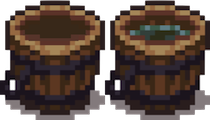
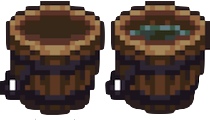
bottom panel

diff --git a/src/components.js b/src/components.js
@@ -21,7 +21,10 @@ gv = {
 			movement: []
 		}
 	},
-	score: 0
+	score: 0,
+	resources: {
+		eggs: 0
+	}
 }
 
 // Grid
@@ -45,11 +48,10 @@ Crafty.c('Grid', {
 Crafty.c('Player', {
 	init: function() {
 		this.requires('2D, Canvas, Grid, Fourway, Keyboard, Collision, Delay, spr_player, SpriteAnimation')
-			.attr({ w:gv.tile_sz, h:gv.tile_sz, z:1 })
+			.attr({ w:gv.tile_sz, h:gv.tile_sz, z:2 })
 			.fourway(50)
 			.onHit('Obstacle', this.stopMovement)
 			.onHit('Resource', this.collectResource)
-			.onHit('Well', this.fillBucket)
 			.onHit('Robot', this.pushRobot)
 			.reel('PlayerMovingUp', 1000, [
 				[0,0], [1,0], [2,0]
@@ -86,7 +88,10 @@ Crafty.c('Player', {
 			})
 			.bind('KeyDown', function(e) {
 				if (e.key == Crafty.keys.X) {
-					this.fillBucket();
+					this.fill();
+					this.getTools();
+				} else if (e.key == Crafty.keys.V) {
+					this.emptyBucket();
 				}
 			})
 	},
@@ -97,10 +102,21 @@ Crafty.c('Player', {
 			hitData.obj.collect();
 		}
 	},
-	fillBucket: function() {
+	fill: function() {
 		var hitDatas, hitData;
 		if ((hitDatas = this.hit('Well'))) {
 			Crafty.trigger('FillBucket');
+		} else if ((hitDatas = this.hit('Barrel'))) {
+			Crafty.trigger('FillSeedBag');
+		}
+	},
+	emptyBucket: function() {
+		Crafty.trigger('EmptyBucket');
+	},
+	getTools: function() {
+		var hitDatas, hitData;
+		if ((hitDatas = this.hit('Bag'))) {
+			Crafty.trigger('GetTools');
 		}
 	},
 	stopMovement: function() {
@@ -164,7 +180,7 @@ Crafty.c('Robot', {
 		}
 	},
 	randomMove: function() {
-		if (this.x/gv.tile_sz < 18 && this.y/gv.tile_sz < 18) {
+		if (this.x/gv.tile_sz < 18 && this.y/gv.tile_sz < 18 && this.x/gv.tile_sz > 1 && this.y/gv.tile_sz > 1) {
 			this.plant();
 		}
 		
@@ -420,33 +436,41 @@ Crafty.c('Blank', {
 	init: function() {
 		this.requires('2D, Canvas, Grid, Color')
 			.color('white')
+			// .attr({ z:-1 })
 	}
 });
 Crafty.c('Score', {
 	init: function() {
-		this.requires('HTML')
-			.attr({ x:500, y:700, w:100, h:40 })
-			.append('Score: 0')
+		this.requires('2D, Canvas, Grid, Text')
+			.attr({ w:100, h:40 })
+			.textFont({ size: '24px' })
 			.bind('UpdateFrame', this.updateScore)
 	},
 	updateScore: function() {
-		this.replace('Score: '+String(gv.score))
+		// this.replace('$   '+String(gv.score))
+		this.text('$    '+gv.score)
 	}
 });
-Crafty.c('Power', {
-	init: function() {
-		this.requires('HTML')
-			.attr({ x:600, y:700, w:200, h:40 })
-			.append('Robot Power: 100')
-			.bind('UpdateFrame', this.updatePower)
-	},
-	updatePower: function() {
-		this.replace('Robot Power: '+String(gv.robot.power))
-		// if (gv.robot.power < 75){
-		// 	this.sprite([0,1])
-		// }
-	}
-});
+// Crafty.c('RobotPower', {
+// 	init: function() {
+// 		this.requires('2D, Canvas, Grid, spr_health1')
+// 			.attr({ w:100, h:20 })
+// 			// .textFont({ size: '20px' })
+// 			.bind('UpdateFrame', this.updatePower)
+// 	},
+// 	updatePower: function() {
+// 		// this.replace('Robot Power: '+String(gv.robot.power))
+// 		if (gv.robot.power < 75) {
+// 			this.sprite('spr_health2');
+// 		} else if (gv.robot.power < 50) {
+// 			this.sprite('spr_health3');
+// 		} else if (gv.robot.power < 25) {
+// 			this.sprite('spr_health4');
+// 		} else if (gv.robot.power < 50) {
+// 			this.sprite('spr_health5');
+// 		}
+// 	}
+// });
 
 
 
@@ -457,13 +481,33 @@ Crafty.c('Resource', {
 	},
 	collect: function() {
 		this.destroy();
-		gv.score = gv.score + this.r;
+		// gv.score = gv.score + this.r;
+		if (this.type() == 'egg') {
+			gv.score += this.r;
+			Crafty.trigger('UpdateLabel');
+		}
+	}
+});
+Crafty.c('ResourceLabel', {
+	init: function() {
+		this.requires('2D, Canvas, Text, Grid')
+			.attr({ z:5 })
+			.textFont({ size: '16px' })
+			.bind('UpdateLabel', this.update)
+			// .dynamicTextGeneration(true)
+	},
+	update: function() {
+		gv.resources.eggs = gv.resources.eggs+1;
+		this.text(gv.resources.eggs);
 	}
 });
 Crafty.c('Egg', {
 	init: function() {
 		this.requires('Resource, spr_egg')
-			.attr({ w:16, h:16, r:5 })
+			.attr({ w:16, h:16, r:1 })
+	},
+	type: function() {
+		return 'egg';
 	}
 });
 
@@ -488,27 +532,87 @@ Crafty.c('Wheat4', {
 	}
 });
 
-
+Crafty.c('Bag', {
+	init: function() {
+		this.requires('2D, Canvas, Grid, spr_bag')
+			.attr({ w:24, h:24 })
+			.bind('GetTools', this.getTools);
+	},
+	getTools: function() {
+		// var x = gv.tile_sz*
+		// var y = this.y/gv.tile_sz;
+		// Crafty.e('Egg').at(x, y);
+	}
+});
+Crafty.c('Barrel', {
+	init: function() {
+		this.requires('2D, Canvas, Grid, spr_barrels')
+			.attr({ w:40, h:40 })
+			.bind('GetSeeds', this.getSeeds);
+	},
+	getSeeds: function() {
+		// var x = gv.tile_sz*
+		// var y = this.y/gv.tile_sz;
+		// Crafty.e('Egg').at(x, y);
+	}
+});
 Crafty.c('Well', {
 	init: function() {
 		this.requires('2D, Canvas, Grid, spr_well')
 			.attr({ w:40, h:40 })
-			// .collision(50, 0,  20, 20,  0, 20)
-			// .debugStroke('black')
 	}
 });
+
+// Bottom panel
 Crafty.c('Bucket', {
 	init: function() {
 		this.requires('2D, Canvas, Grid, Solid, spr_bucket_empty, Collision')
-			.attr({ w:gv.tile_sz*2, h:gv.tile_sz*2 })
+			.attr({ w:gv.tile_sz*2.5, h:gv.tile_sz*2.5 })
 			.bind('FillBucket', this.fill)
+			.bind('EmptyBucket', this.empty)
 	},
 	fill: function() {
 		Crafty.log('fill');
 		this.sprite('spr_bucket_full');
+	},
+	empty: function() {
+		Crafty.log('empty');
+		this.sprite('spr_bucket_empty');
 	}
 });
-
+Crafty.c('SeedBag', {
+	init: function() {
+		this.requires('2D, Canvas, Grid, Solid, spr_seed_bag_empty, Collision')
+			.attr({ w:gv.tile_sz*2.5, h:gv.tile_sz*2.5 })
+			.bind('FillSeedBag', this.fill)
+			.bind('EmptySeedBag', this.empty)
+	},
+	fill: function() {
+		Crafty.log('fill');
+		this.sprite('spr_seed_bag_full');
+	},
+	empty: function() {
+		Crafty.log('empty');
+		this.sprite('spr_seed_bag_empty');
+	}
+});
+Crafty.c('Tools', {
+	init: function() {
+		this.requires('2D, Canvas, Grid, spr_tools')
+	}
+});
+Crafty.c('Scroll', {
+	init: function() {
+		this.requires('2D, Canvas, Grid, spr_scroll')
+			.attr({ w:450, h:120, z:0 })
+	}
+});
+Crafty.c('SqrBlock', {
+	init: function() {
+		this.requires('2D, Canvas, Grid, spr_block')
+			.attr({ w:120, h:120, z:0 })
+	}
+});
 
 
 // Scenery

diff --git a/src/scenes.js b/src/scenes.js
@@ -117,11 +117,29 @@ Crafty.scene('Game', function() {
 	}
 
 	// Add machinery
-	this.well = Crafty.e('Well').at(1,Game.h()-7.8);
+	var scene_b = Game.h()-7.8;
+	this.well = Crafty.e('Well').at(1,scene_b);
+	this.bag = Crafty.e('Barrel').at(3,scene_b+.1);
 
 	// Add score information
-	this.bucket = Crafty.e('Bucket').at(20,Game.h()-3);
-	this.egg = Crafty.e('Egg').at(23,Game.h()-3).attr({ w:48, h:48 });
+	var box_b = Game.h()-3.8;
+	this.scroll = Crafty.e('Scroll').at(0,Game.h()-5);
+	this.score = Crafty.e('Score').at(4,box_b+1).text('$    0');
+	// this.power = Crafty.e('RobotPower').at(8,box_b+1.2);
+
+	for (var x = 0; x < 7; x++) {
+		Crafty.e('SqrBlock').at(19+(x*5),Game.h()-5);
+	}
+	this.bucket = Crafty.e('Bucket').at(20.2,box_b);
+	this.seed_bag = Crafty.e('SeedBag').at(25.2,box_b);
+	this.egg = Crafty.e('Egg').at(35.2,box_b).attr({ w:60, h:60 });
+	Crafty.e('ResourceLabel').at(36.1,box_b+1).text(0);
+
+	// Crafty.e('ResourceLabel').attr({ x:26*24, y:box_b*24}).text(0);
+	
+
+
+
 
 	// Crafty.addEvent(this.bucket, Crafty.stage.elem, this.player.KeyDown, this.bucket.fill);
 
@@ -131,8 +149,6 @@ Crafty.scene('Game', function() {
 	// this.power = Crafty.e('Power')
 
 
-	// var obj = Crafty.map.boundaries();
-	// Crafty.log(obj);
 
 });
 
@@ -178,11 +194,11 @@ Crafty.scene('Loading', function() {
 				tile: 202,
 				tileh: 30,
 				map: {
-					spr_full: [0,0],
-					spr_75: [0,1],
-					spr_50: [0,2],
-					spr_25: [0,3],
-					spr_none: [0,4]
+					spr_health1: [0,0],
+					spr_health2: [1,0],
+					spr_health3: [2,0],
+					spr_health4: [3,0],
+					spr_health5: [4,0]
 				}
 			},
 			'assets/farm/plowed_soil.png': {
@@ -278,13 +294,64 @@ Crafty.scene('Loading', function() {
 					spr_bucket_full: [1,0]
 				}
 			},
-			'assets/farm-tools.png': {
+			'assets/farm/farm-tools.png': {
 				tile: 64,
 				tileh: 64,
 				map: {
 					spr_bag: [0,0],
 					spr_shovel: [0,1],
 					spr_scythe: [1,1]
+				}
+			},
+			'assets/farm/ui/box.png': {
+				tile: 1000,
+				tileh: 323,
+				map: {
+					spr_box: [0,0]
+				}
+			},
+			'assets/farm/ui/scroll.png': {
+				tile: 1000,
+				tileh: 274,
+				map: {
+					spr_scroll: [0,0]
+				}
+			},
+			'assets/farm/ui/block.png': {
+				tile: 96,
+				tileh: 96,
+				map: {
+					spr_block: [0,0]
+				}
+			},
+			'assets/farm/tools.png': {
+				tile: 32,
+				tileh: 32,
+				map: {
+					spr_tools: [0,0]
+				}
+			},
+			'assets/seed_bags.png': {
+				tile: 105,
+				tileh: 97,
+				map: {
+					spr_seed_bag_empty: [0,0],
+					spr_seed_bag_full: [1,0]
+				}
+			},
+			'assets/farm/barrels.png': {
+				tile: 64,
+				tileh: 64,
+				map: {
+					spr_barrels: [1,0]
+				}
+			},
+			'assets/chests.png': {
+				tile: 32,
+				tileh: 32,
+				map: {
+					spr_chest_closed: [0,0],
+					spr_chest_open: [0,1]
 				}
 			}
 		}
